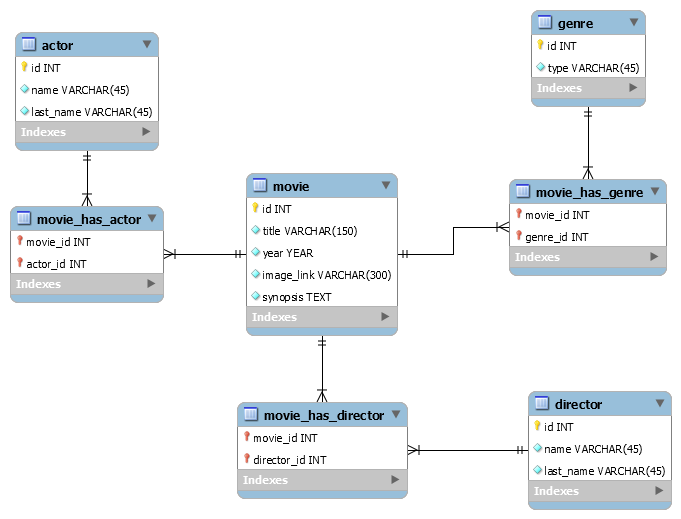
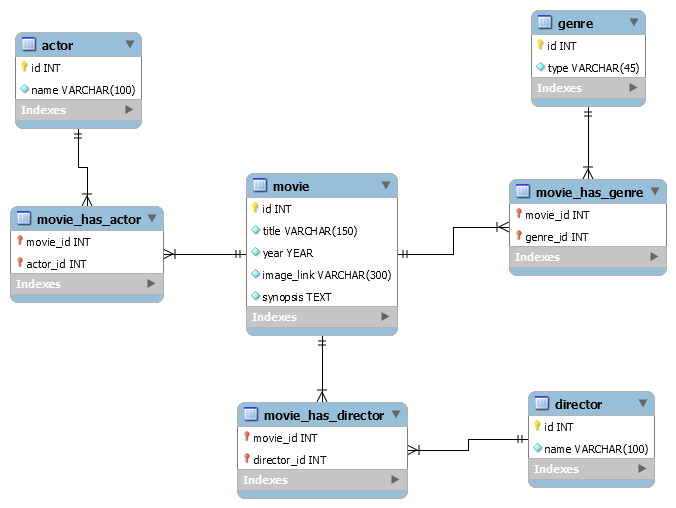
Added queries execute functionnalities and changed DB fields
- I added a querie select method and a query no return method (insert into, update, delete) on CacheDb class

- I changed name and last_name fields of actor's and director's table  to only one name field.
It's very more simple for check if x or y person exists or no. Because it's difficult to know what's the name or last name of a person if he has 2 word with space. Which one is the name or last name ?
So, with one field "name" it's more simple.

Changed region(s): [[0.0, 0.0591, 0.9941, 1.0], [0.6834, 0.2953, 0.9941, 0.561], [0.7766, 0.0, 0.963, 0.2362]]

diff --git a/What2Watch/src/what2watch/CacheDb.java b/What2Watch/src/what2watch/CacheDb.java
@@ -14,6 +14,8 @@ import java.sql.ResultSetMetaData;
 import java.sql.SQLException;
 import java.sql.Statement;
 import java.util.ArrayList;
+import java.util.logging.Level;
+import java.util.logging.Logger;
 
 /**
  *
@@ -108,28 +110,6 @@ public class CacheDb {
         }                     
 
     }
-    
-    
-    public String doSqlQuerry(String query) {
-
-    String retour = "";
-
-    try (Connection conn = this.connect();
-        Statement stmt  = conn.createStatement();
-        ResultSet result    = stmt.executeQuery(query)){
-        ResultSetMetaData metadata = result.getMetaData();
-        int columnCount = metadata.getColumnCount();
-        while (result.next()) {    
-            for(int i=1;i<=columnCount;i++) {
-                retour += result.getString(i) + ";";
-            }    
-        }
-
-    } catch (SQLException e) {
-        System.out.println(e.getMessage());
-    } 
-        return retour;
-    }
 
     
     private ArrayList<String> getTablesQueries() {
@@ -138,40 +118,38 @@ public class CacheDb {
 
         
         // All the SQL queries for create the tables
-        String sqlCreateTableMovie = " CREATE TABLE movie(\n"
-                +"id INTEGER PRIMARY KEY NOT NULL,\n"
-                +"title VARCHAR(150) NOT NULL,\n"
-                +"year YEAR NOT NULL,\n"
-                +"image_link VARCHAR(300) NOT NULL,\n"
+        String sqlCreateTableMovie = " CREATE TABLE movie("
+                +"id INTEGER PRIMARY KEY NOT NULL,"
+                +"title VARCHAR(150) NOT NULL,"
+                +"year YEAR NOT NULL,"
+                +"image_link VARCHAR(300) NOT NULL,"
                 +"synopsis TEXT NOT NULL);";
         
-        String sqlCreateTableActor = " CREATE TABLE actor(\n"
-                +"id INTEGER PRIMARY KEY NOT NULL,\n"
-                +"name VARCHAR(45) NOT NULL,\n"
-                +"last_name VARCHAR(45) NOT NULL);";
+        String sqlCreateTableActor = " CREATE TABLE actor("
+                +"id INTEGER PRIMARY KEY NOT NULL,"
+                +"name VARCHAR(100) NOT NULL);";
         
-        String sqlCreateTableGenre = " CREATE TABLE genre(\n"
-                +"id INTEGER PRIMARY KEY NOT NULL,\n"
+        String sqlCreateTableGenre = " CREATE TABLE genre("
+                +"id INTEGER PRIMARY KEY NOT NULL,"
                 +"type VARCHAR(45) NOT NULL);";
         
-        String sqlCreateTableDirector = " CREATE TABLE director(\n"
-                +"id INTEGER PRIMARY KEY NOT NULL,\n"
-                +"name VARCHAR(45) NOT NULL,\n"
-                +"last_name VARCHAR(45) NOT NULL);";
+        String sqlCreateTableDirector = " CREATE TABLE director("
+                +"id INTEGER PRIMARY KEY NOT NULL,"
+                +"name VARCHAR(100) NOT NULL);";
         
-        String sqlCreateTableMovieHasActor = "CREATE TABLE movie_has_actor(\n"
+        String sqlCreateTableMovieHasActor = "CREATE TABLE movie_has_actor("
                 +"movie_id INTEGER NOT NULL,"
                 +"actor_id INTEGER NOT NULL,"
                 +"FOREIGN KEY(movie_id) REFERENCES movie(id),"
                 +"FOREIGN KEY(actor_id) REFERENCES actor(id));";
         
-        String sqlCreateTableMovieHasGenre = "CREATE TABLE movie_has_genre(\n"
+        String sqlCreateTableMovieHasGenre = "CREATE TABLE movie_has_genre("
                 +"movie_id INTEGER NOT NULL,"
                 +"genre_id INTEGER NOT NULL,"
                 +"FOREIGN KEY(movie_id) REFERENCES movie(id),"
                 +"FOREIGN KEY(genre_id) REFERENCES genre(id));";
         
-        String sqlCreateTableMovieHasDirector = "CREATE TABLE movie_has_director(\n"
+        String sqlCreateTableMovieHasDirector = "CREATE TABLE movie_has_director("
                 +"movie_id INTEGER NOT NULL,"
                 +"director_id INTEGER NOT NULL,"
                 +"FOREIGN KEY(movie_id) REFERENCES movie(id),"
@@ -200,8 +178,9 @@ public class CacheDb {
         // All the SQL queries for insert the datas
         String sqlInsertIntoActor = "INSERT INTO 'actor'"
                 + "VALUES"
-                + "(NULL,'Orlando','Bloom'),"
-                + "(NULL,'Leonardo','DiCaprio');";
+                + "(NULL,'Orlando Bloom'),"
+                + "(NULL,'Leonardo DiCaprio'),"
+                + "(NULL,'Chris Pratt');";
         
         String sqlInsertIntoMovie = "INSERT INTO 'movie'"
                 + "VALUES"
@@ -217,8 +196,8 @@ public class CacheDb {
         
         String sqlInsertIntoDirector = "INSERT INTO 'director'"
                 + "VALUES "
-                + "(NULL,'Peter','Jackson'),"
-                + "(NULL,'James','Cameron');";
+                + "(NULL,'Peter Jackson'),"
+                + "(NULL,'James Cameron');";
         
         String sqlInsertIntoMovieHasActor = "INSERT INTO 'movie_has_actor'"
                 + "VALUES "
@@ -251,6 +230,42 @@ public class CacheDb {
            
         // Return the arrayList
         return queries; 
+    }
+    
+    
+    public String doSelectQuery(String query) {
+
+    String retour = "";
+
+    try (Connection conn = this.connect();
+        Statement stmt  = conn.createStatement();
+        ResultSet result    = stmt.executeQuery(query)){
+        ResultSetMetaData metadata = result.getMetaData();
+        int columnCount = metadata.getColumnCount();
+        while (result.next()) {    
+            for(int i=1;i<=columnCount;i++) {
+                retour += result.getString(i) + ";";
+            }    
+        }
+
+    } catch (SQLException e) {
+        System.out.println(e.getMessage());
+    } 
+        return retour;
+    }
+    
+    
+    // (No return query is for example : Insert / Update / Delete)
+    void doNoReturnQuery(String query) {
+ 
+        Connection conn = this.connect();
+        try {
+            Statement stmt  = conn.createStatement();
+            stmt.execute(query);
+        } catch (SQLException ex) {
+            System.out.println("Error on CacheDb class / doNoReturnQuery. Exeption = "+ex.getMessage().toString());
+        }
+        
     }
     
     

diff --git a/What2Watch/src/what2watch/Movie.java b/What2Watch/src/what2watch/Movie.java
@@ -14,11 +14,11 @@ public class Movie {
     
     
     private String title;
-    private String director;
-    private String[] actors;
+    private String[] director;
+    private String[] actor;
     private String year;
     private String poster;
-    private String genre;
+    private String[] genre;
     private String synopsis;
     
 
@@ -33,12 +33,12 @@ public class Movie {
         return title;
     }
 
-    public String getDirector() {
+    public String[] getDirector() {
         return director;
     }
 
     public String[] getActors() {
-        return actors;
+        return actor;
     }
 
     public String getYear() {
@@ -49,7 +49,7 @@ public class Movie {
         return poster;
     }
 
-    public String getGenre() {
+    public String[] getGenre() {
         return genre;
     }
     
@@ -67,11 +67,11 @@ public class Movie {
     }
 
     public void setDirector(String director) {
-        this.director = director;
+        this.director = director.split(", ");
     }
 
     public void setActors(String actors) {
-        this.actors = actors.split(", ");
+        this.actor = actors.split(", ");
     }
 
     public void setYear(String year) {
@@ -83,7 +83,7 @@ public class Movie {
     }
 
     public void setGenre(String genre) {
-        this.genre = genre;
+        this.genre = genre.split(", ");
     }
     
     public void setSynopsis(String synopsis) {

diff --git a/What2Watch/src/what2watch/Main.java b/What2Watch/src/what2watch/Main.java
@@ -98,7 +98,8 @@ public class Main extends Application {
         
         
         /* TEST IF MOVIE EXISTS OR NOT*/ 
-        DbHandler dbHandler = new DbHandler(cacheDb,"Titanic");
+        // it's an updating of cache
+        DbHandler dbHandler = new DbHandler(cacheDb,"guardians of the galaxy");
         
         
         
